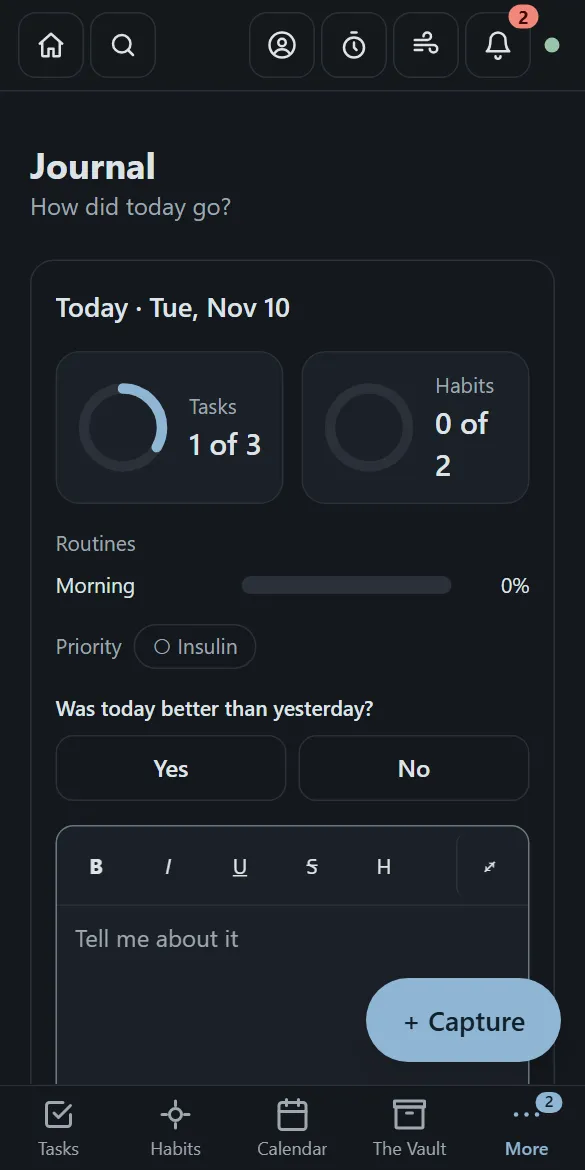
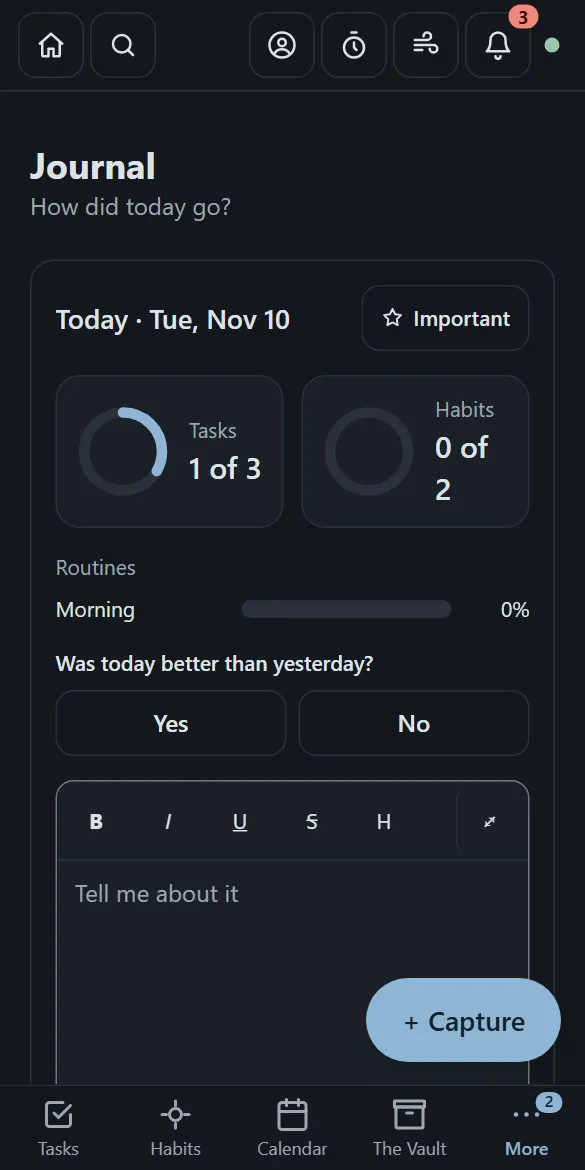
Journal Important days: merge review fixes, Help and home page (SPEC §5)
- The Important toggle goes back to the stored value when saving fails.
- A locked Important day is listed by the filter but no longer found by words
  matching its date.
- New words or filters start the Important journals list from page 1.
- Help (Journal, Search and tags) and the home page's Journal line mention Important
  days; Journal pictures retaken. PROGRESS moved to the archive.

diff --git a/src/messages.ts b/src/messages.ts
@@ -1637,7 +1637,7 @@ export const messages = {
       { image: 'home-routine', title: 'Routines, one step at a time', body: 'Line up a morning or bedtime routine once. After that, just follow the next step.', alt: 'A routine in progress, showing the current step.' },
       { image: 'home-calendar', title: 'Calendar and invitations', body: "Events with reminders. Invite people by email or phone, even if they don't use My Brain, and find a time when everyone's free.", alt: 'The calendar for November with tasks and events on each day.' },
       { image: 'home-vault', title: 'The Vault', body: 'Buckets of things worth keeping: books to read, shopping, places to go, restaurants to try. Share one with people you know and add to it together.', alt: 'A Vault bucket of books, with ratings and one checked off.' },
-      { image: 'home-journal', title: 'A short daily journal', body: 'A few lines a day, and a note for tomorrow you.', alt: "The Journal page with today's writing box." },
+      { image: 'home-journal', title: 'A short daily journal', body: 'A few lines a day, and a note for tomorrow you. Mark the important days to find them again.', alt: "The Journal page with today's writing box." },
       { image: 'home-quests', title: 'Bored? Random Quest', body: "Can't decide what to do? Pick your energy and your time, and let the app choose.", alt: 'Random Quest after picking something to do.' },
       { image: 'home-dashboard', title: 'Dashboard, Post Its and Trophies', body: "Your home page: quick notes, one suggestion for what's next, and trophies for keeping at it.", alt: 'The Dashboard with a Post It on a chalkboard.' },
     ],
@@ -1666,7 +1666,7 @@ export const messages = {
       { id: 'scheduling', title: 'Finding a time', what: 'See who’s free before you pick a time. Works with your connections.', steps: ['Set the times you’re not available: Calendar, then My availability (Work hours fills in a work week).', 'Add connections to an event. Each one shows free, busy, maybe busy or unknown.', 'Open Schedule and tap Find a time, then tap a time to use it.'], alt: 'The event editor’s Schedule section with the Find a time button highlighted.' },
       { id: 'connections', title: 'Connections', what: 'Connect with people you know, so you can invite each other in the app.', steps: ['Open Account, then People (or More, then Connections).', 'Type their email or phone number and tap Send request.', "Once they accept, you can invite them, see when they're free, and share Vault buckets with them.", 'People you invite by email or phone are saved under Offsite connections, below your connections. They answer from a link, no account needed.'], alt: 'The Connections page with the box for their email or phone number highlighted.' },
       { id: 'vault', title: 'The Vault', what: 'Buckets of things to keep: shopping, books, places to go.', steps: ['Tap a bucket to open it.', 'Add items, with a rating, a link or notes if you like.', 'Checklists let you tick things off.', 'To make a new bucket, type its name at the top and tap Add bucket.', 'In Bucket settings, tick Make this my default bucket: it’s listed first and picked for you when you capture to the Vault.', 'In Bucket settings, share a list with your connections so they can add to it too, or show it on your profile for them to see.'], alt: 'The Vault page with the Books to read list highlighted.' },
-      { id: 'journal', title: 'Journal', what: 'A few lines a day.', steps: ['Open More, then Journal.', "Write in today's box. It saves as you type.", 'Answer "Was today better than yesterday?" and leave a note for tomorrow.', 'To change an earlier day, tap Edit beside it.'], alt: "The Journal page with today's writing box highlighted." },
+      { id: 'journal', title: 'Journal', what: 'A few lines a day.', steps: ['Open More, then Journal.', "Write in today's box. It saves as you type.", 'Answer "Was today better than yesterday?" and leave a note for tomorrow.', 'To change an earlier day, tap Edit beside it. Tap Important on a day worth coming back to.'], alt: "The Journal page with today's writing box highlighted." },
       { id: 'journal-lock', title: 'Locking your journal', what: 'Encrypt your journal so only you can read it, even if someone sees the database.', steps: ['Open Account, then Account Settings, and tap Lock my journal.', 'Pick a passphrase and save your recovery key somewhere safe.', 'On a new device, unlock with your passphrase, your recovery key or a passkey.'], alt: 'The Lock my journal section of the Account page highlighted.' },
       { id: 'quests', title: 'Random Quest', what: 'Bored? Let the app pick something to do.', steps: ['Open More, then Quests.', 'Pick your energy and how much time you have.', 'Tap Pick a quest for me.'], alt: 'The Random Quest page with the Pick a quest for me button highlighted.' },
       { id: 'focus', title: 'Focus timer', what: 'A timer for working in short bursts.', steps: ['Tap the stopwatch at the top. It starts right away.', 'Faint dots are other people focusing too.', 'Tap Minimize to keep using the app.'], alt: 'The top of the screen with the stopwatch button highlighted.' },
@@ -1676,7 +1676,7 @@ export const messages = {
       { id: 'trophies', title: 'Trophies', what: 'Trophies reward you for keeping at it.', steps: ['Find them on your Dashboard.', 'Tap See all trophies to see what you have earned.', 'Close to the next one? The Dashboard says so.'], alt: 'The Trophies section of the Dashboard highlighted.' },
       { id: 'alerts', title: 'Alerts', what: 'Every reminder and message also lands under the bell.', steps: ['Tap the bell. The number is how many are new.', 'Tap an alert to go to it.', 'Tap ✕ to clear one, or Clear all.'], alt: 'The Alerts list open from the bell, highlighted.' },
       { id: 'reminders', title: 'Reminders on your phone', what: 'Get reminders even when the app is closed.', steps: ['Install the app first (see Install on your phone).', 'Then open Account, then Reminders, and turn on Notifications on this device.', 'At 9 pm you get one reminder if anything for today is left. Change the time, or turn it off, under Evening reminder.'], alt: 'The Reminders settings on the Account page highlighted.' },
-      { id: 'search', title: 'Search and tags', what: "Find anything you've saved.", steps: ['Tap the magnifying glass at the top.', 'Type a word.', 'Tag tasks, habits and routines (like Work or Home) to find them together.'], alt: 'The top of the screen with the search button highlighted.' },
+      { id: 'search', title: 'Search and tags', what: "Find anything you've saved.", steps: ['Tap the magnifying glass at the top.', 'Type a word, or tap Important journals for the days you marked Important.', 'Tag tasks, habits and routines (like Work or Home) to find them together.'], alt: 'The top of the screen with the search button highlighted.' },
       { id: 'offline', title: 'Works offline', what: "No signal? Keep going. Changes upload when you're back online.", steps: ['The dot at the top shows how saving is going.', 'Hover over it, or look in the side menu on a computer, to see Synced, Offline or how many are waiting.', 'Your phone and computer stay in step.'], alt: 'The top of the screen with the sync dot highlighted.' },
       { id: 'tv', title: 'My Brain on your TV', what: 'Your calendar, your day, routines, quests and the Focus timer on a Samsung TV, driven by the remote.', steps: ['Open the My Brain app on your TV. It shows a code and a QR code.', 'Scan the QR code with your phone, or open Account, then Paired devices, and type the code. Then tap Pair this TV.', 'To stop it, tap Unpair beside the TV under Paired devices.'], alt: 'The Paired devices section of the Account page with the box for the TV’s code highlighted.' },
       { id: 'data', title: 'Your data', what: 'Download everything, or start fresh.', steps: ['Open Account, then Your data.', 'Tap Download my data to save a copy.', 'Delete my data lets you pick what to remove first.'], alt: 'The Your data section of the Account page with the Download my data button highlighted.' },

diff --git a/src/search/search.ts b/src/search/search.ts
@@ -74,10 +74,10 @@ export function searchDocs(data: SearchData): SearchDoc[] {
       .map((v) => doc('vault_item', v.id, v.title, [plainText(v.notes ?? ''), v.link].filter(Boolean).join('\n'), v.updated_at, { bucketId: v.bucket_id, context: bucketName.get(v.bucket_id) })),
     ...data.journal
       // A locked journal's writing isn't searched until this device unlocks it (SPEC §5 Locking my journal), but an
-      // Important day is still listed by its date.
+      // Important day is still listed by its date, though no words find it (its date isn't something I wrote).
       .map((j) => ({ j, words: [readable(j.body), readable(j.tomorrow)].map(plainText).filter(Boolean).join('\n') }))
       .filter(({ j, words }) => !j.deleted_at && (words || j.important))
-      .map(({ j, words }) => doc('journal_entry', j.id, j.date, words, j.updated_at, { date: j.date, important: !!j.important })),
+      .map(({ j, words }) => doc('journal_entry', j.id, j.date, words, j.updated_at, { date: j.date, important: !!j.important, ...(words ? {} : { haystack: '' }) })),
     ...data.quests.filter((q) => !q.deleted_at).map((q) => doc('quest', q.id, q.title, plainText(q.details ?? ''), q.updated_at)),
     ...data.events.filter((e) => shownToMe(e, data.invites, data.me)).map((e) => doc('event', e.id, e.title, plainText(e.notes ?? ''), e.updated_at, { date: e.start_date })),
     ...data.habits.filter((h) => !h.deleted_at).map((h) => doc('habit', h.id, h.title, '', h.updated_at)),

diff --git a/src/tests/e2e/search/search.spec.ts b/src/tests/e2e/search/search.spec.ts
@@ -106,5 +106,20 @@ test.describe('Spec §5 Global search and tags', () => {
     await dialog.getByTestId('search-result').click()
     await expect(page).toHaveURL(/\/journal\?date=2026-11-08/)
   })
+
+  test('SPEC §2 Long lists come in pages: the Important journals list comes in pages, and new words start again from the first page', async ({ page }) => {
+    // 41 important days from Sep 1 (three pages); the 25 newest mention sleep (two pages).
+    const day = (i: number) => new Date(Date.UTC(2026, 8, 1 + i)).toISOString().slice(0, 10)
+    server.seed('journal_entries', Array.from({ length: 41 }, (_, i) => ({ id: `j${i}`, date: day(i), body: i >= 16 ? '<p>Slept well</p>' : '<p>Worth keeping</p>', important: true, stats: {}, stats_final: true, auto: false })))
+    await open(page, '/')
+    const dialog = await openSearch(page)
+    await dialog.getByTestId('search-important').click()
+    await expect(dialog.getByTestId('search-result')).toHaveCount(20)
+    await dialog.getByTestId('page-controls').getByRole('button', { name: msg.pages.next }).click()
+    await expect(dialog.getByTestId('page-controls')).toContainText(msg.pages.position(2, 3))
+    await dialog.getByRole('searchbox', { name: msg.search.placeholder }).fill('slept')
+    await expect(dialog.getByTestId('page-controls')).toContainText(msg.pages.position(1, 2))
+    await expect(dialog.getByTestId('search-result')).toHaveCount(20)
+  })
 })
 

diff --git a/src/tests/unit/journal/important.test.ts b/src/tests/unit/journal/important.test.ts
@@ -1,0 +1,18 @@
+import { beforeEach, describe, expect, it, vi } from 'vitest'
+import { flushPromises, mount } from '@vue/test-utils'
+import { createPinia, setActivePinia } from 'pinia'
+import JournalImportant from '@/journal/components/JournalImportant.vue'
+import { useBrainStore } from '@/stores/brain'
+
+beforeEach(() => setActivePinia(createPinia()))
+
+describe('SPEC §5 Journal, Important days: the toggle', () => {
+  it('goes back to how the day is really stored when marking it fails', async () => {
+    const brain = useBrainStore()
+    brain.markJournalImportant = vi.fn().mockRejectedValue(new Error('store failed'))
+    const toggle = mount(JournalImportant, { props: { date: '2026-11-10' } })
+    await toggle.get('[data-testid="journal-important"]').trigger('click')
+    await flushPromises()
+    expect(toggle.get('[data-testid="journal-important"]').attributes('aria-pressed')).toBe('false')
+  })
+})

diff --git a/src/search/components/SearchDialog.vue b/src/search/components/SearchDialog.vue
@@ -142,6 +142,8 @@ const results = computed(() => search(docs.value, query.value, chosenTags.value,
 // Every Important day can be listed, so that list comes in pages (SPEC §2 Long lists come in pages); other results
 // show the first 30 of each type.
 const { page, pageCount, pageItems } = usePagination(results, 20)
+// A new filter or new words start again from the newest important days.
+watch([importantOnly, query, chosenTags], () => (page.value = 1))
 const shown = computed(() => (importantOnly.value ? pageItems.value : results.value))
 const groups = computed(() =>
   RESULT_ORDER.map((type) => ({ type, items: shown.value.filter((r) => r.type === type).slice(0, 30) })).filter((g) => g.items.length),

diff --git a/src/tests/unit/search/search.test.ts b/src/tests/unit/search/search.test.ts
@@ -61,6 +61,7 @@ describe('Spec §5 Global search', () => {
     expect(search(marked, '', [], true).map((d) => d.id)).toEqual(['new', 'locked', 'old'])
     expect(search(marked, 'insight', [], true).map((d) => d.id)).toEqual(['old'])
     expect(search(marked, 'insight').map((d) => d.id)).toEqual(['t1', 'old', 'plain']) // without the filter, unmarked days are found too
+    expect(search(marked, '2026-11-10').map((d) => d.id)).toEqual([]) // a locked day isn't found by words, only listed
   })
 
   it('SPEC §5 Shared events: an event I said No to or dropped out of is not found; one I said Yes to is', () => {

diff --git a/src/journal/components/JournalImportant.vue b/src/journal/components/JournalImportant.vue
@@ -38,6 +38,9 @@ async function toggle() {
   emit('busy', true)
   try {
     await brain.markJournalImportant(props.date, on.value)
+  } catch {
+    // Not saved: show what's really stored, rather than a mark that isn't there.
+    on.value = !!props.entry?.important
   } finally {
     emit('busy', false)
   }

diff --git a/PROGRESS.md b/PROGRESS.md
@@ -6,7 +6,6 @@ Current state only. Update at the end of every session; when work merges, move i
 - Try the TV launcher on the TV (below). Nothing else is planned (SPEC §10; dropped ideas in DECISIONS 2026-11-25).
 
 ## In progress
-- **Important journal days, branch `journal-important` (off `main`; not committed or merged):** each journal day has an Important toggle (star) by its heading; Search has an Important journals chip listing those days, newest first, or the matching ones with words, in pages of 20 (SPEC §5 Journal, Global search and tags; DECISIONS 2026-11-27). Column `journal_entries.important` (migration `20261127010000_journal_important.sql`, on dev, not prod). The flag stays readable when locked (Privacy page updated). test:quick and test:db pass. At merge: Help (`/help`) and the home page need a line about it.
 - **Routines run any time, branch `routines-anytime` (on top of `tv-feedback`; not merged):** any routine with steps can start any day (an off-day run leaves its stats and streak alone), a finished one offers Start again (the day counts once), scheduled routines are listed first, and today's unfinished scheduled routines show in the TV's Your Day (SPEC §5 Routines, DECISIONS 2026-11-26).
 - **TV feedback, branch `tv-feedback` (not merged, no PR yet):** the dashboard fits one screen at 1920×1080 (Your Day above Routines on the right, Go on a Quest and Focus timer side by side under them); Your Day lists what's left of today, titles only: events, open tasks, habits due today, each leaving once passed or done, then "You did good today, get some rest"; the clocks are 12-hour with a small am/pm. Reviewed (`/code-review medium`): fixed a missed or paused habit making the day "all done", and row kinds told by colour alone. Also fixed (QA on the TV): Completed on a routine step failed ("can't reach My Brain") because the TV sent a parameter the server function doesn't take; the browser tests' stand-in server now refuses any call the real one would (`rpcProblem` in `fakeSupabase.ts`). To check on the TV: it fits (the one-screen layout needs a page of at least 1800×1000; check the TV's size if it still scrolls) and the calendar stretches to the bottom.
 - **TV app (SPEC §9):** merged in PR #115 (all six steps; migrations on prod 2026-11-26). Left: install the launcher on the TV (`tv-launcher/README.md`) and check there that the frame isn't refused, pairing survives a restart, the night screen stays on overnight, and a phone reads the QR code. Open (SPEC §12): whether friends can use it.

diff --git a/docs/PROGRESS_ARCHIVE.md b/docs/PROGRESS_ARCHIVE.md
@@ -4,6 +4,10 @@ Older history moved out of `PROGRESS.md` on 2026-11-10 to keep session start-up 
 
 Newest first from here on, up to the next "Step 1" heading; below that, oldest first.
 
+## Important journal days (merged 2026-11-27, branch `journal-important`)
+- Each journal day has an Important toggle (star) by its heading; Search's Important journals chip lists those days, newest first, or the matching ones with words, in pages of 20 (SPEC §5 Journal, Global search and tags; DECISIONS 2026-11-27). Column `journal_entries.important` (migration `20261127010000_journal_important.sql`, dev and prod). Readable when the journal is locked (Privacy page says so); a locked important day is listed by date but no words find it.
+- Merge review (`/code-review medium`) found 3, all fixed with tests: the toggle stayed on when the save failed; locked Important days matched plain searches by their date; the Important list stayed on a later page after new words. Help (Journal, Search) and the home page's Journal line updated; Journal pictures retaken.
+
 ## Refused fields; Claude runs test:db; dropped plans (merged via PR 112, branch `test-db-by-claude`)
 - SPEC §5 Forms "When a save is refused" (DECISIONS 2026-11-25 "Refused fields"): `useFieldError` + `v-field-error` + `FieldError` in every form that refuses one field. The field is marked `aria-invalid`, described by its message, its fold-outs open and focus moves to it; a refusal while focus is already there, or with no field shown, is said through `announce()`. Picks from a time or day list clear it (`FIELD_CHANGED`). Editors check titles and names themselves (`messages.forms.titleNeeded`/`nameNeeded`, no browser pop-up); a refused field has a red border. Each Save shows only its own answer.
 - Claude runs `npm run test:db` itself (37/37 passed). Dropped from the plan: wording and phone checks, guest poll, further iPhone work, Discord invites, the gamifying ideas, the smartwatch and the `.ics` feed; Download my data leaves out Cheers.
